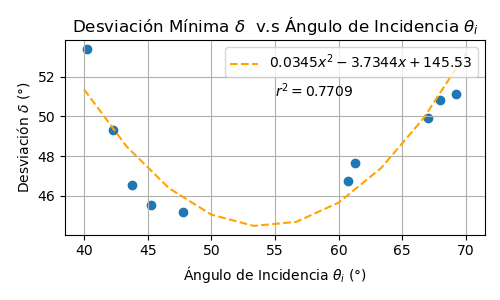
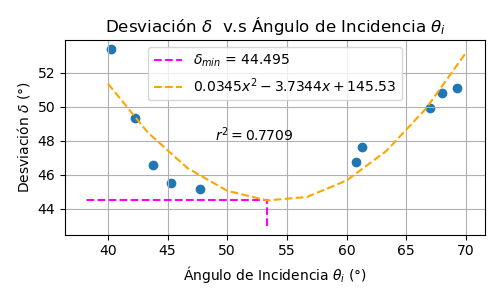
Correct graphs

diff --git a/graphs.py b/graphs.py
@@ -32,19 +32,42 @@ eq2 = lambda x: 0.0345*(x**2) - 3.7344*x + 145.53
 np.vectorize(eq2)
 theta_axis_inter = np.linspace(40, 70, 10)
 delta_inter = eq2(theta_axis_inter)
+amax = np.argmin(delta_inter)
+delta_min = delta_inter[amax]
+delta_min_str = str((round(delta_min, 3)))
+xlim,ylim = plt.xlim(), plt.ylim()
 
 print(len(theta_i), len(delta))
 fig1, ax1 = plt.subplots(figsize=(5, 3))
-
-ax1.set_title(r'Desviación Mínima $\delta$  v.s Ángulo de Incidencia $\theta_i$')
+plt.plot([theta_axis_inter[amax], theta_axis_inter[amax], 38], [43, delta_inter[amax], delta_inter[amax]], linestyle="--", color='magenta', label=r'$\delta_{min}$ ' + f'= {delta_min_str}')
+ax1.set_title(r'Desviación $\delta$  v.s Ángulo de Incidencia $\theta_i$')
 ax1.set_ylabel(r'Desviación $\delta$ (°)')
 ax1.set_xlabel(r'Ángulo de Incidencia $\theta_i$ (°)')
 ax1.scatter(theta_i, delta)
 ax1.plot(theta_axis_inter, delta_inter, '--', color='orange', label=r'$0.0345x^{2} - 3.7344x + 145.53$')
-ax1.text(55, 51, r'$r^{2} = 0.7709$', fontsize = 10)
-ax1.legend(loc='upper right')
+ax1.text(49, 48, r'$r^{2} = 0.7709$', fontsize = 10)
+ax1.legend(loc='best')
 ax1.grid()
 fig1.tight_layout()
+
+
+theta_e = [73.13, 67.07, 62.8, 60.28, 57.42, 45.98, 46.4, 42.92, 42.8, 41.87]
+eq3 = lambda x: (-0.9501*x) + 105.89
+np.vectorize(eq3)
+theta_axis_inter = np.linspace(40, 70, 10)
+the_inter = eq3(theta_axis_inter)
+
+fig2, ax2 = plt.subplots(figsize=(5, 3))
+
+ax2.set_title(r'Ángulo de Salida $\theta_e$  v.s Ángulo de Incidencia $\theta_i$')
+ax2.set_ylabel(r'Ángulo de Salida $\theta_e$ (°)')
+ax2.set_xlabel(r'Ángulo de Incidencia $\theta_i$ (°)')
+ax2.scatter(theta_i, theta_e)
+ax2.plot(theta_axis_inter, the_inter, '--', color='orange', label=r'$-0.9501x + 105.89')
+ax2.text(56, 58, r'$r^{2} = 0.9467$', fontsize = 10)
+ax2.legend(loc='upper right')
+ax2.grid()
+fig2.tight_layout()
 
 
 plt.show()

diff --git a/abbe_number.py b/abbe_number.py
@@ -6,10 +6,10 @@ from functions import *
 #n_yellow = get_refraction_angle(46.68)
 #n_red = get_refraction_angle(46.13)
 
-n_violet = get_refraction_angle(56.53)
-n_green = get_refraction_angle(55.55)
-n_yellow = get_refraction_angle(54.68)
-n_red = get_refraction_angle(54.13)
+n_violet = get_refraction_angle(56.537)
+n_green = get_refraction_angle(55.553)
+n_yellow = get_refraction_angle(54.687)
+n_red = get_refraction_angle(54.137)
 
 
 print(n_violet, n_green, n_yellow, n_red)
@@ -18,6 +18,9 @@ print(n_violet, n_green, n_yellow, n_red)
 n_arr = [n_violet, n_yellow, n_red]
 
 cauchy_aproximation = get_cauchy_aprox(443.755, 587.562, 667.815, n_arr)
+cauchy_constants = get_cauchy_constants(443.755, 587.562, 667.815, n_arr)
+
+print(f"Cauchy Constants: {cauchy_constants}")
 
 n_d = cauchy_aproximation(587.6)
 n_F = cauchy_aproximation(486.1)

diff --git a/functions.py b/functions.py
@@ -37,6 +37,14 @@ def get_cauchy_aprox(l1, l2, l3, n_array=[1, 1, 1]):
     return lambda lamb: x[0] + (x[1]/(lamb**2)) + (x[2]/(lamb**4))  
 
 
+def get_cauchy_constants(l1, l2, l3, n_array=[1, 1, 1]):
+    A = np.array(([1, 1/(l1**2), 1/(l1**4)], [1, 1/(l2**2), 1/(l2**4)], [1, 1/(l3**2), 1/(l3**4)]))
+    b = np.array((n_array)).reshape(3, 1)
+    x = np.linalg.inv(A) @ b 
+    #lambda lamb: x[0] + (x[1]/(lamb**2)) + (x[2]/(lamb**4))  
+    return x
+
+
 def get_refraction_angle(min_deviation):
     alpha = np.deg2rad(60)
     min_deviation = np.deg2rad(min_deviation)

diff --git a/calculations.py b/calculations.py
@@ -1,0 +1,3 @@
+from functions import * 
+
+print(get_refraction_angle(44.495))
